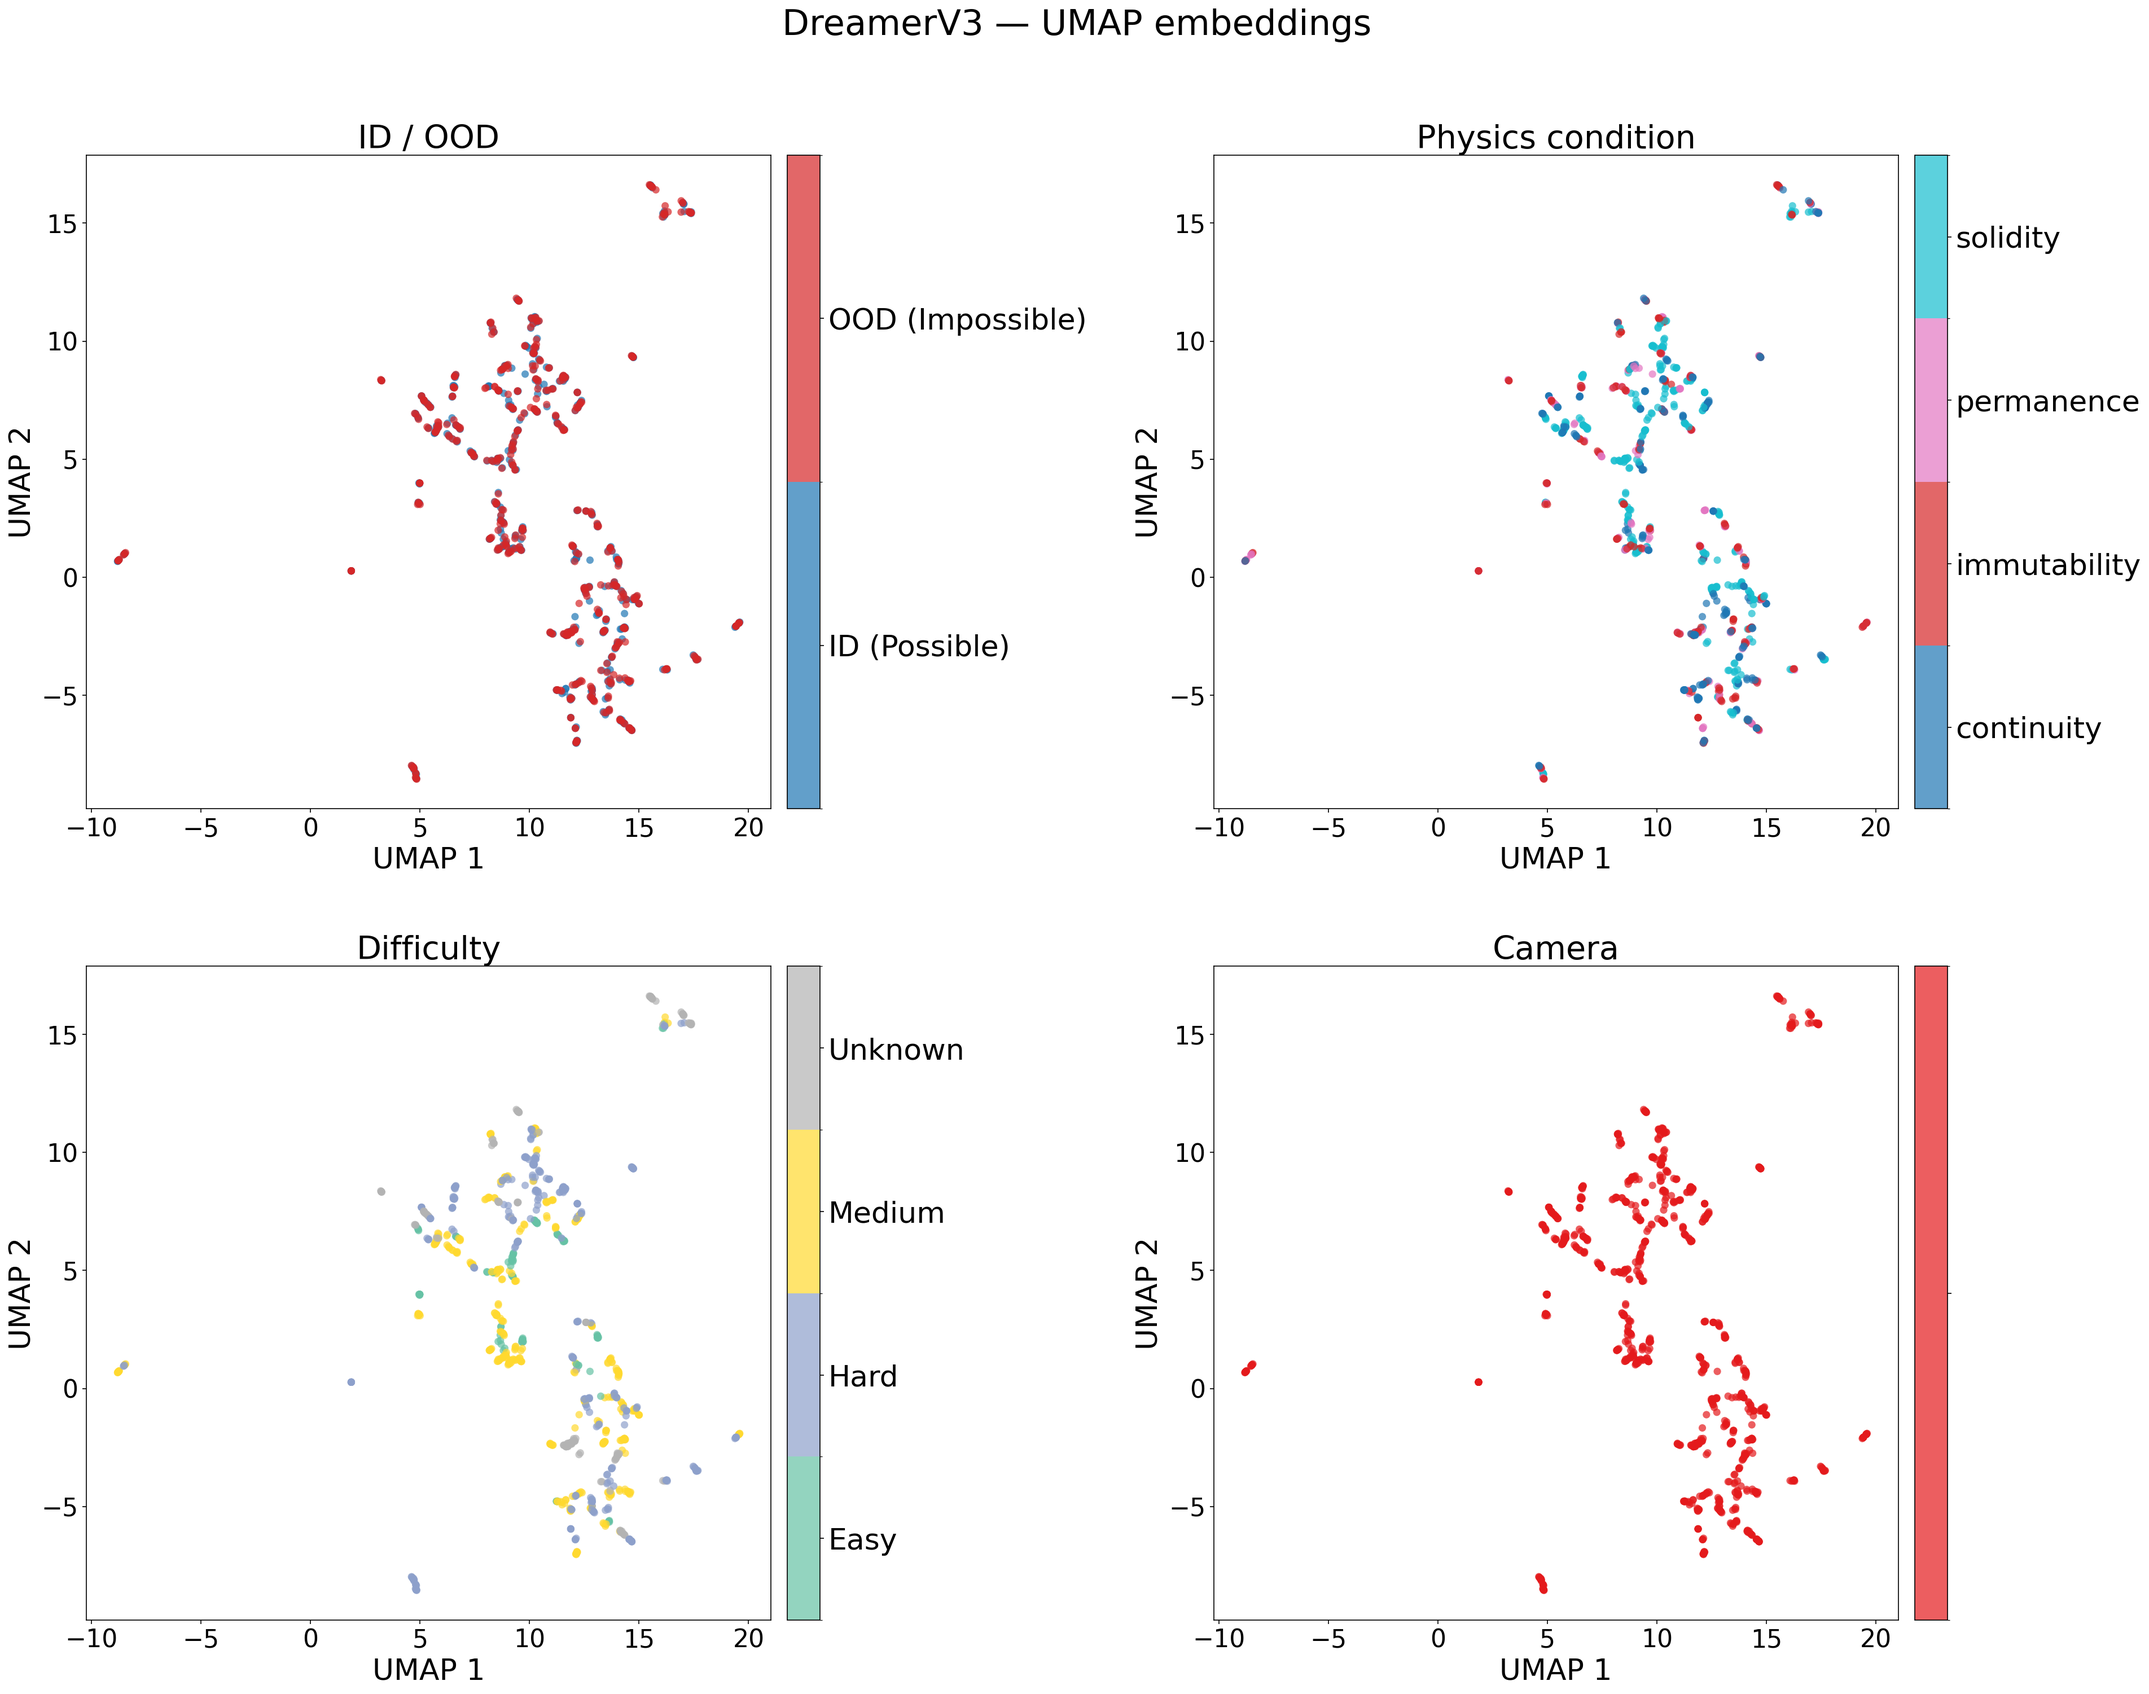
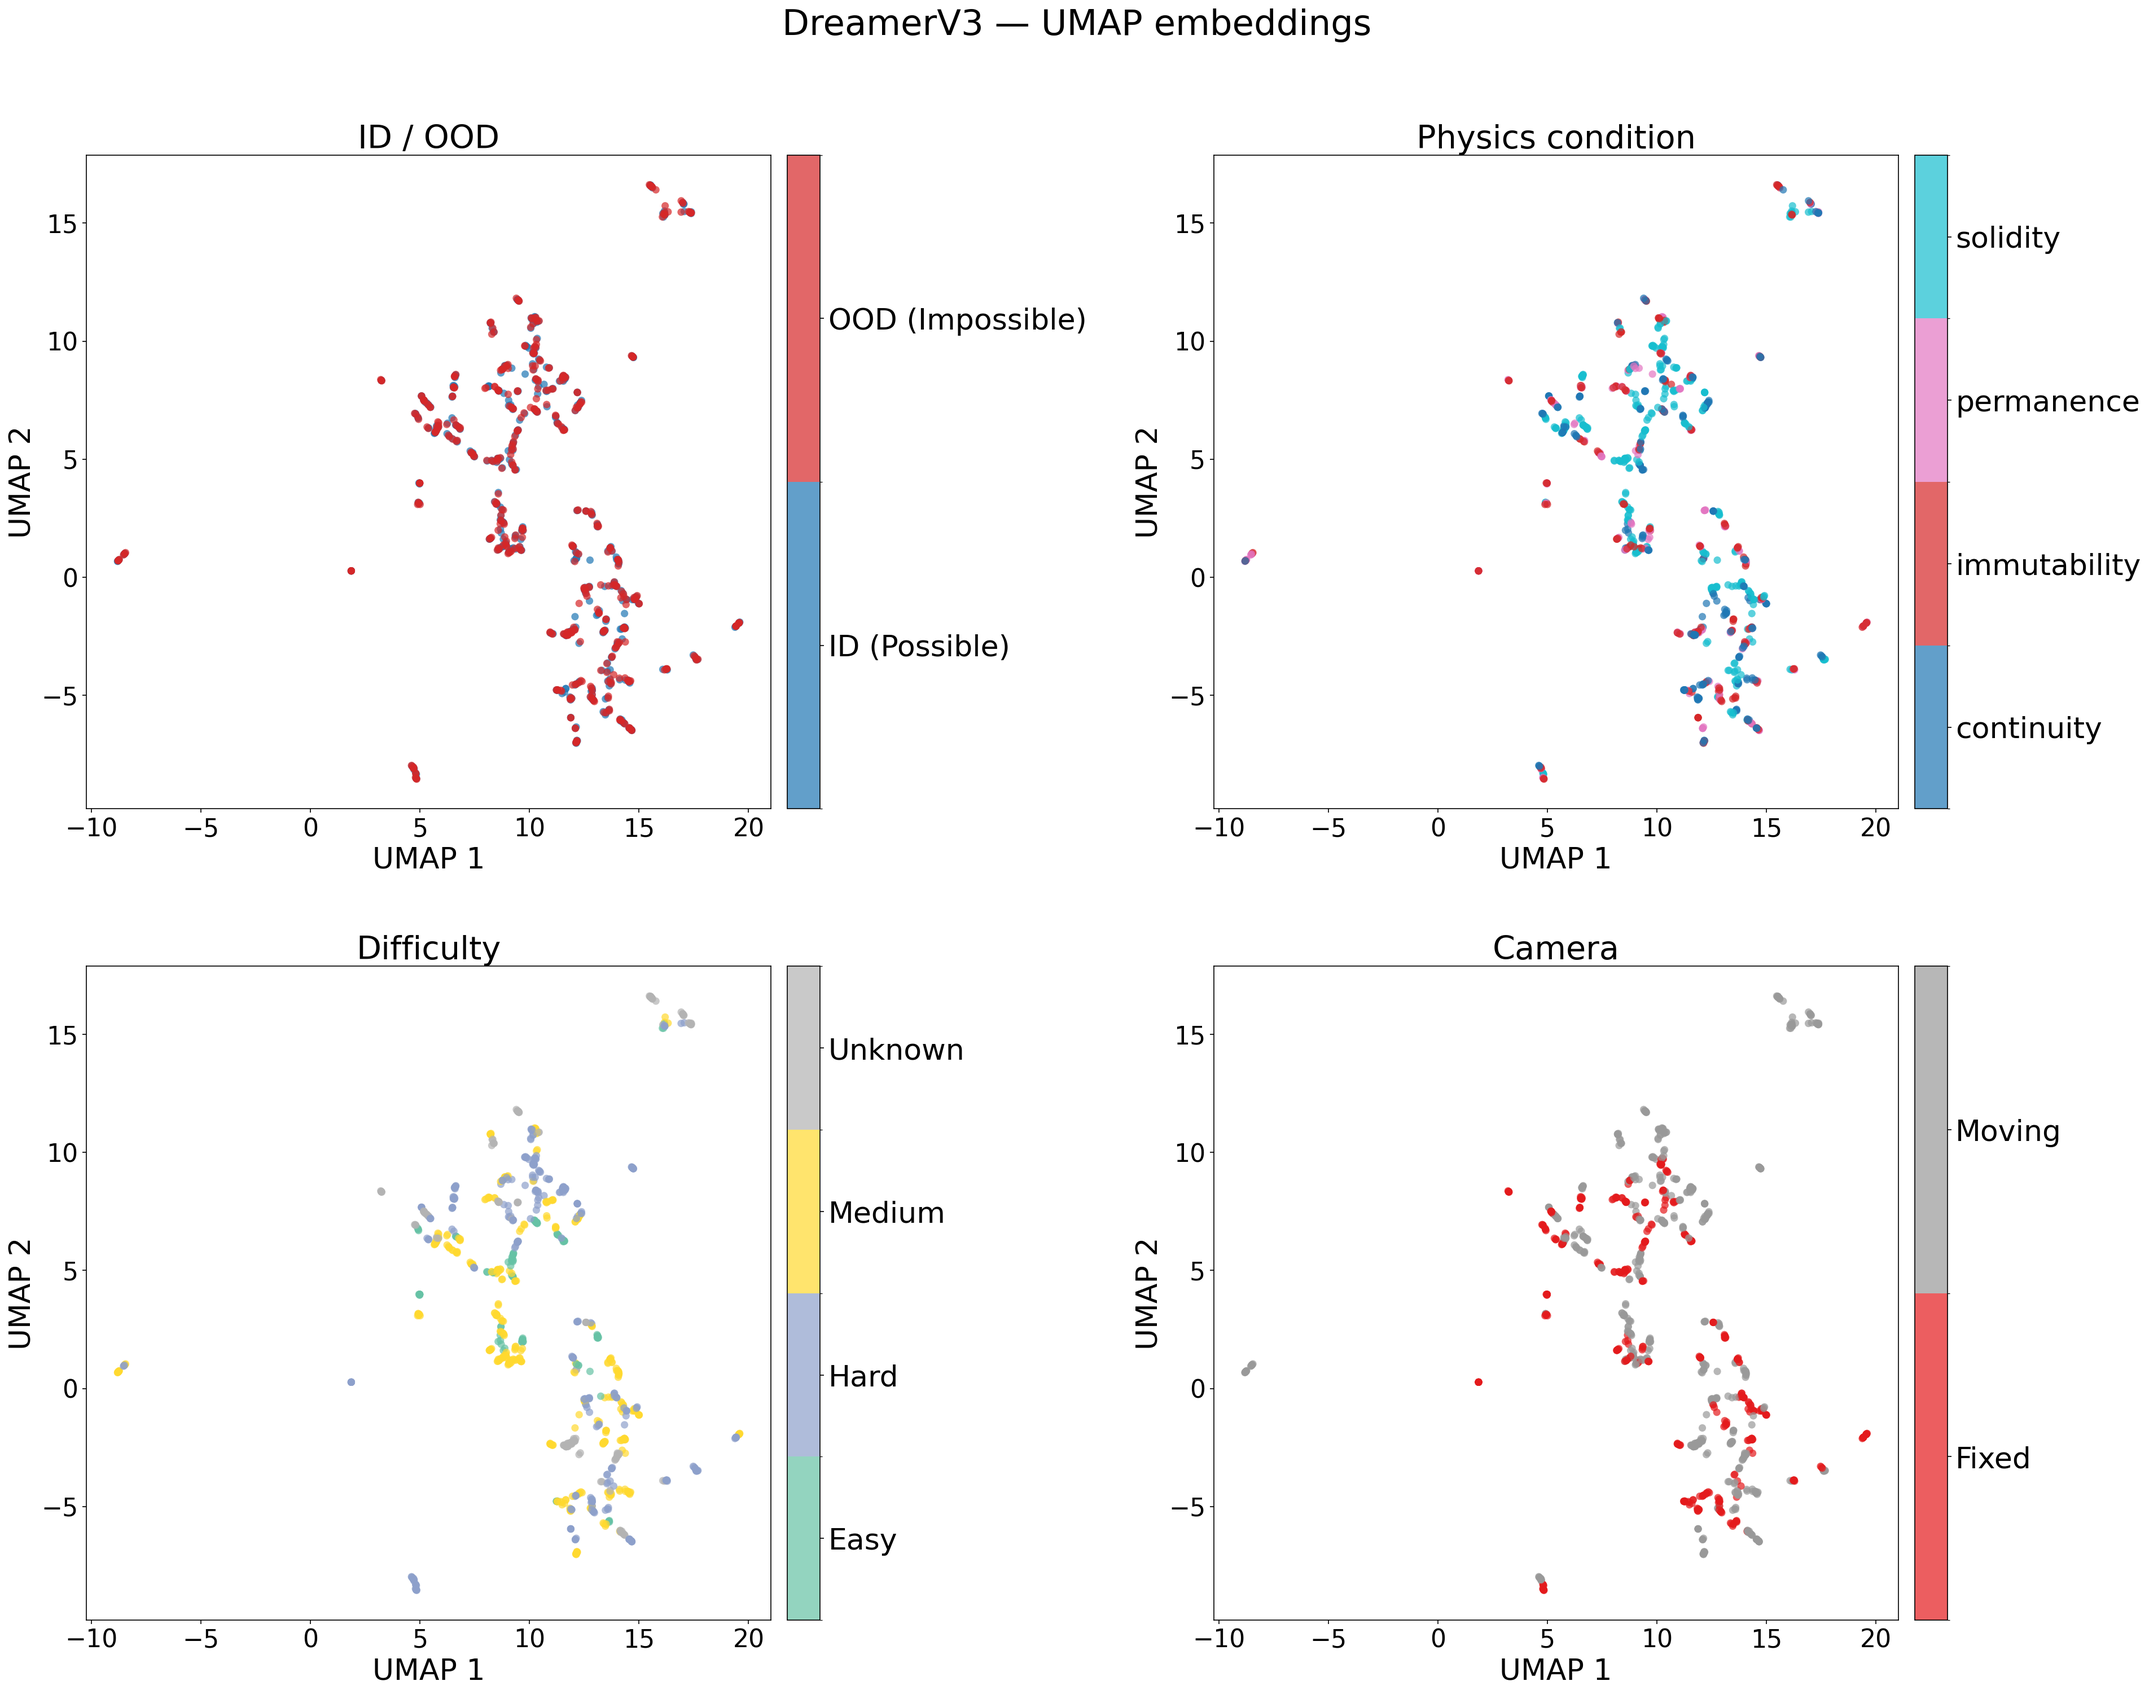
update

diff --git a/dreamerv3/dreamerv3_umap.py b/dreamerv3/dreamerv3_umap.py
@@ -1,6 +1,7 @@
 #!/usr/bin/env python3
 """UMAP visualization of V-JEPA embeddings, colored by ID/OOD, condition, difficulty, camera."""
 
+import csv
 import json
 from pathlib import Path
 
@@ -19,6 +20,7 @@ ID_LATENTS_PATH  = DREAMER_OUT_DIR / "id_latents.npy"
 OOD_LATENTS_PATH = DREAMER_OUT_DIR / "ood_latents.npy"
 ID_META_PATH     = DREAMER_OUT_DIR / "id_metadata.json"
 OOD_META_PATH    = DREAMER_OUT_DIR / "ood_metadata.json"
+JOINED_CSV_PATH  = ROOT_DIR / "VideoMAEv2" / "outputs" / "intphys2_main1012_pipeline" / "aggregated" / "intphys2_main1012_joined.csv"
 OUT_PATH         = ROOT_DIR / "outputs" / "dreamerv3_umap.png"
 
 BASE_FONT = 10
@@ -42,13 +44,32 @@ if len(ood_meta) != ood_lat.shape[0]:
 
 emb = np.concatenate([id_lat.mean(axis=1), ood_lat.mean(axis=1)], axis=0).astype(np.float32)
 
-id_types = [str(m.get("type", "Possible")) for m in id_meta]
-ood_types = [str(m.get("type", "Impossible")) for m in ood_meta]
-types = id_types + ood_types
-conditions = [str(m.get("condition", "")) for m in id_meta] + [str(m.get("condition", "")) for m in ood_meta]
-difficulties = [str(m.get("Difficulty", m.get("difficulty", ""))) for m in id_meta]
-difficulties += [str(m.get("Difficulty", m.get("difficulty", ""))) for m in ood_meta]
-cameras = [""] * len(types)
+video_ids = [str(m.get("name", f"id_{i:06d}")) for i, m in enumerate(id_meta)]
+video_ids += [str(m.get("name", f"ood_{i:06d}")) for i, m in enumerate(ood_meta)]
+all_meta = id_meta + ood_meta
+
+print(f"Loading canonical labels: {JOINED_CSV_PATH}")
+with open(str(JOINED_CSV_PATH), "r", encoding="utf-8", newline="") as f:
+    joined_rows = list(csv.DictReader(f))
+joined_by_id = {r["video_id"]: r for r in joined_rows if r.get("video_id")}
+
+missing_join = 0
+types, conditions, difficulties, cameras = [], [], [], []
+for vid, meta in zip(video_ids, all_meta):
+    row = joined_by_id.get(vid)
+    if row is None:
+        missing_join += 1
+        types.append(str(meta.get("type", "")))
+        conditions.append(str(meta.get("condition", "")))
+        difficulties.append(str(meta.get("Difficulty", meta.get("difficulty", ""))))
+        cameras.append("")
+    else:
+        types.append(str(row.get("type_raw", row.get("possible_or_impossible", ""))).strip())
+        conditions.append(str(row.get("condition", "")).strip())
+        difficulties.append(str(row.get("difficulty", "")).strip())
+        cameras.append(str(row.get("camera", "")).strip())
+if missing_join:
+    print(f"WARNING: {missing_join} Dreamer rows missing from joined metadata; used fallback labels for those rows.")
 
 print(f"Embeddings shape: {emb.shape}")
 

diff --git a/dreamerv3/dreamerv3_metrics.py b/dreamerv3/dreamerv3_metrics.py
@@ -29,6 +29,7 @@ ID_LATENTS_PATH = LATENT_DIR / 'id_latents.npy'
 OOD_LATENTS_PATH = LATENT_DIR / 'ood_latents.npy'
 ID_META_PATH = LATENT_DIR / 'id_metadata.json'
 OOD_META_PATH = LATENT_DIR / 'ood_metadata.json'
+JOINED_CSV_PATH = ROOT_DIR / 'VideoMAEv2' / 'outputs' / 'intphys2_main1012_pipeline' / 'aggregated' / 'intphys2_main1012_joined.csv'
 OUTPUT_DIR = ROOT_DIR / 'outputs'
 
 # ── load dreamerv3 latents ─────────────────────────────────────────────────
@@ -57,12 +58,30 @@ frame_emb = np.concatenate([id_lat, ood_lat], axis=0).astype(np.float32)
 
 video_ids = [str(m.get('name', f'id_{i:06d}')) for i, m in enumerate(id_meta)]
 video_ids += [str(m.get('name', f'ood_{i:06d}')) for i, m in enumerate(ood_meta)]
+all_meta = id_meta + ood_meta
 
-conditions = [str(m.get('condition', '')) for m in id_meta] + [str(m.get('condition', '')) for m in ood_meta]
-types = [str(m.get('type', 'Possible')) for m in id_meta] + [str(m.get('type', 'Impossible')) for m in ood_meta]
-difficulties = [str(m.get('Difficulty', m.get('difficulty', ''))) for m in id_meta]
-difficulties += [str(m.get('Difficulty', m.get('difficulty', ''))) for m in ood_meta]
-cameras = [''] * len(video_ids)
+print(f"Loading canonical labels: {JOINED_CSV_PATH}")
+with open(str(JOINED_CSV_PATH), 'r', encoding='utf-8', newline='') as f:
+    joined_rows = list(csv.DictReader(f))
+joined_by_id = {r['video_id']: r for r in joined_rows if r.get('video_id')}
+
+missing_join = 0
+conditions, types, difficulties, cameras = [], [], [], []
+for vid, meta in zip(video_ids, all_meta):
+    row = joined_by_id.get(vid)
+    if row is None:
+        missing_join += 1
+        conditions.append(str(meta.get('condition', '')))
+        types.append(str(meta.get('type', '')))
+        difficulties.append(str(meta.get('Difficulty', meta.get('difficulty', ''))))
+        cameras.append('')
+    else:
+        conditions.append(str(row.get('condition', '')).strip())
+        types.append(str(row.get('type_raw', row.get('possible_or_impossible', ''))).strip())
+        difficulties.append(str(row.get('difficulty', '')).strip())
+        cameras.append(str(row.get('camera', '')).strip())
+if missing_join:
+    print(f"WARNING: {missing_join} Dreamer rows missing from joined metadata; used fallback labels for those rows.")
 
 n_total, embed_dim = emb.shape
 print(f"Embeddings: {emb.shape}")
